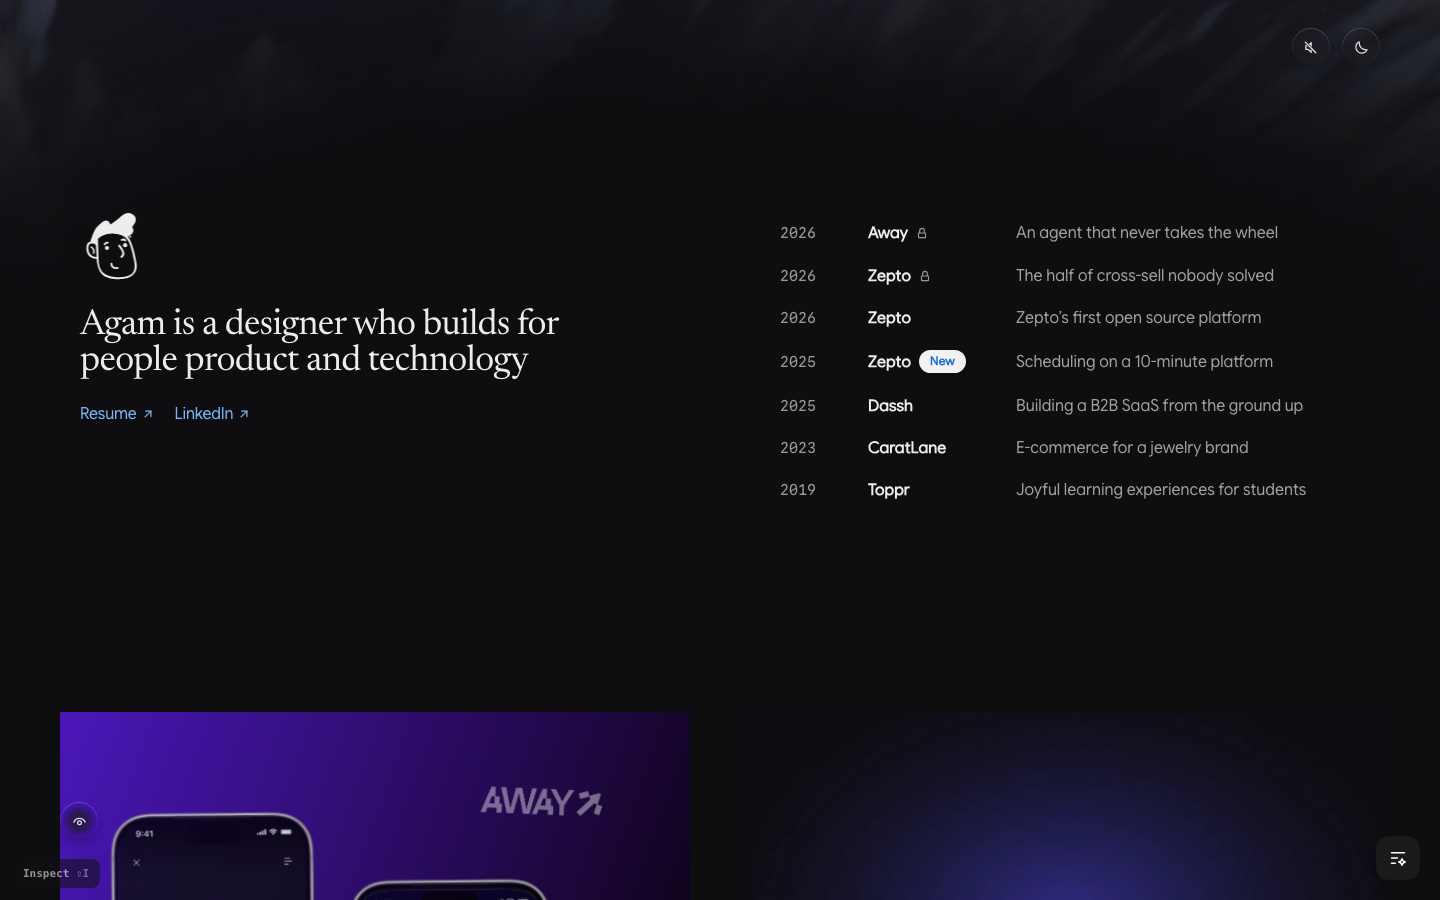
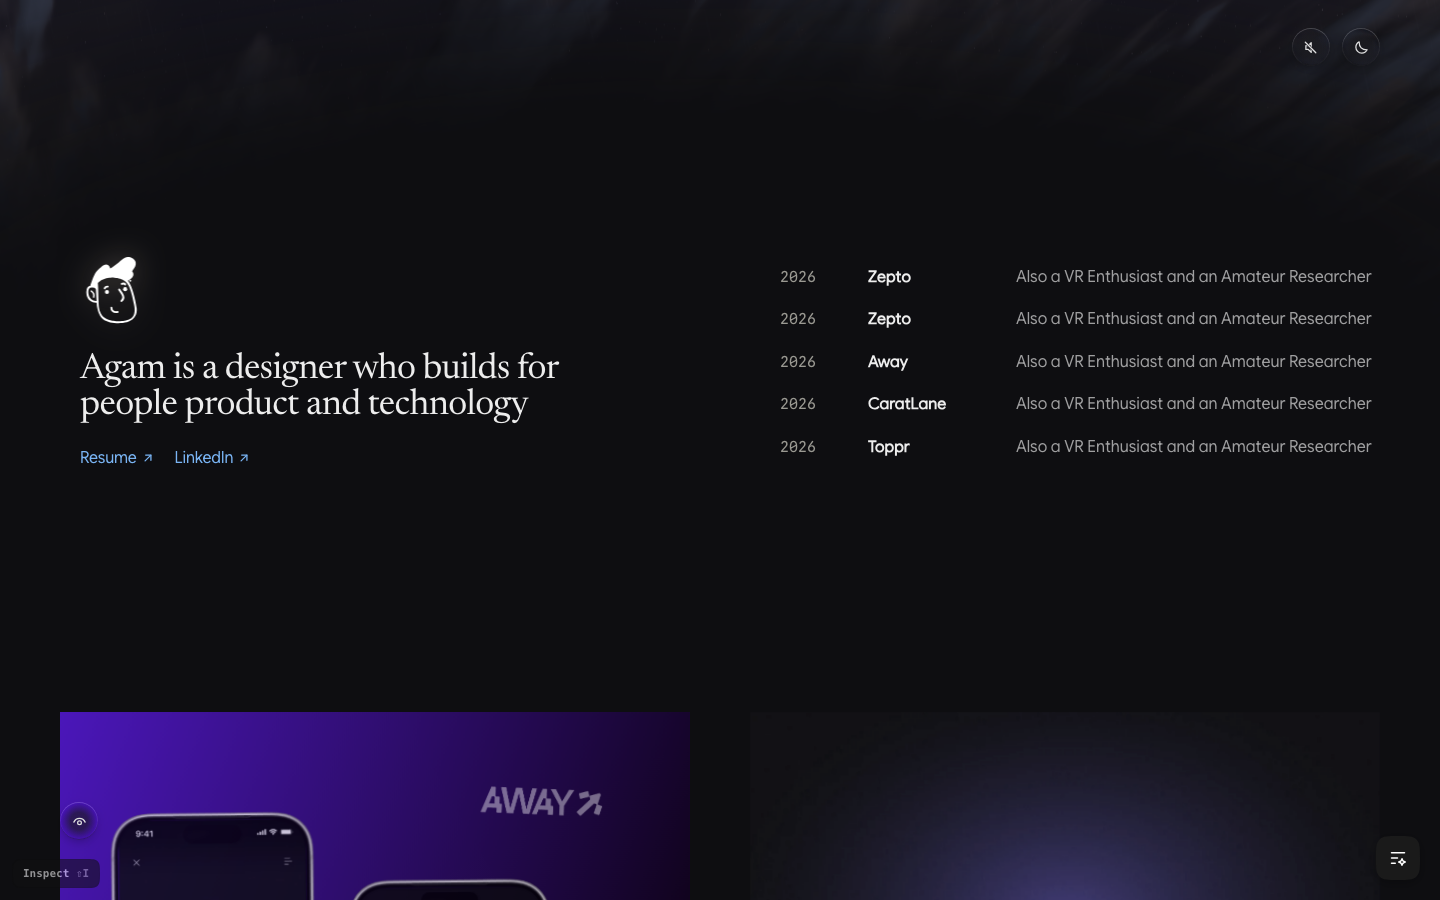
Hero v2: right column uses the Figma frame's exact copy

diff --git a/src/hello3/Hello.jsx b/src/hello3/Hello.jsx
@@ -26,7 +26,7 @@ import RoleTooltip from "./RoleTooltip";
 import GreetingMark from "./GreetingMark";
 import { HelloFlipControl, HelloFlipLayer, HelloFlipSr, useHelloFlipStore } from "./HelloFlip";
 import HelloLink from "./HelloLink";
-import HeroV2 from "./HeroV2";
+import HeroV2, { HERO_V2_ROWS } from "./HeroV2";
 import { useHeroVersion } from "./heroVersions";
 import { LINKS } from "../hello/helloData";
 import HeroChips from "./HeroChips"; // eslint-disable-line no-unused-vars -- hero row parked (mtr6evtb), see the comment in the hero
@@ -1511,7 +1511,13 @@ export default function Hello3({ onNavigate, theme, onToggleTheme, sound, onTogg
             work card carries its year, title and line instead (WorkGrid.jsx, the same rows) */}
         {!phone && (
         <div className="hello-hero__table work work--timeline" role="list" aria-label="Timeline" data-calm>
-          {TIMELINE.map((r, i) => {
+          {heroV === "v2" && HERO_V2_ROWS.map((r, i) => (
+            <div className="work__item" role="listitem" key={i} style={{ "--i": i }}>
+              <span className="work__main"><span className="work__year">{r.year}</span><span className="work__title">{r.org}</span></span>
+              <span className="work__meta">{r.line}</span>
+            </div>
+          ))}
+          {heroV !== "v2" && TIMELINE.map((r, i) => {
             const Row = LOCKED.has(r.href) ? LockedLink : HelloLink; // mv58rul2: awaiting NDA approval, shown but not openable
             const rowProps = LOCKED.has(r.href) ? { badge: false } : { to: r.href, onNavigate };
             return (

diff --git a/src/hello3/HeroV2.jsx b/src/hello3/HeroV2.jsx
@@ -10,6 +10,16 @@ import "./heroV2.css";
 
 export const HERO_V2_TAGLINE = "Agam is a designer who builds for people product and technology";
 
+// the frame's right column, word for word (Figma 1586:14452)
+const L = "Also a VR Enthusiast and an Amateur Researcher";
+export const HERO_V2_ROWS = [
+  { year: "2026", org: "Zepto", line: L },
+  { year: "2026", org: "Zepto", line: L },
+  { year: "2026", org: "Away", line: L },
+  { year: "2026", org: "CaratLane", line: L },
+  { year: "2026", org: "Toppr", line: L },
+];
+
 export default function HeroV2({ flyerRef, stage, reduce, replayId, replayGreeting }) {
   return (
     <div className="hv2">
